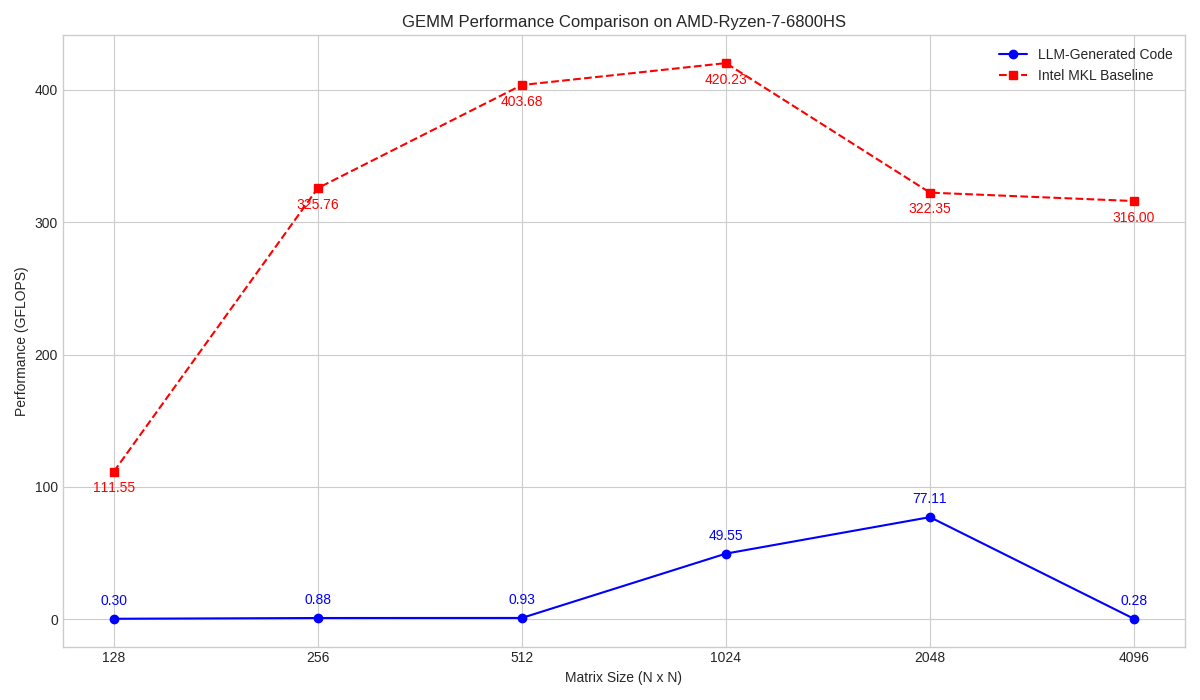
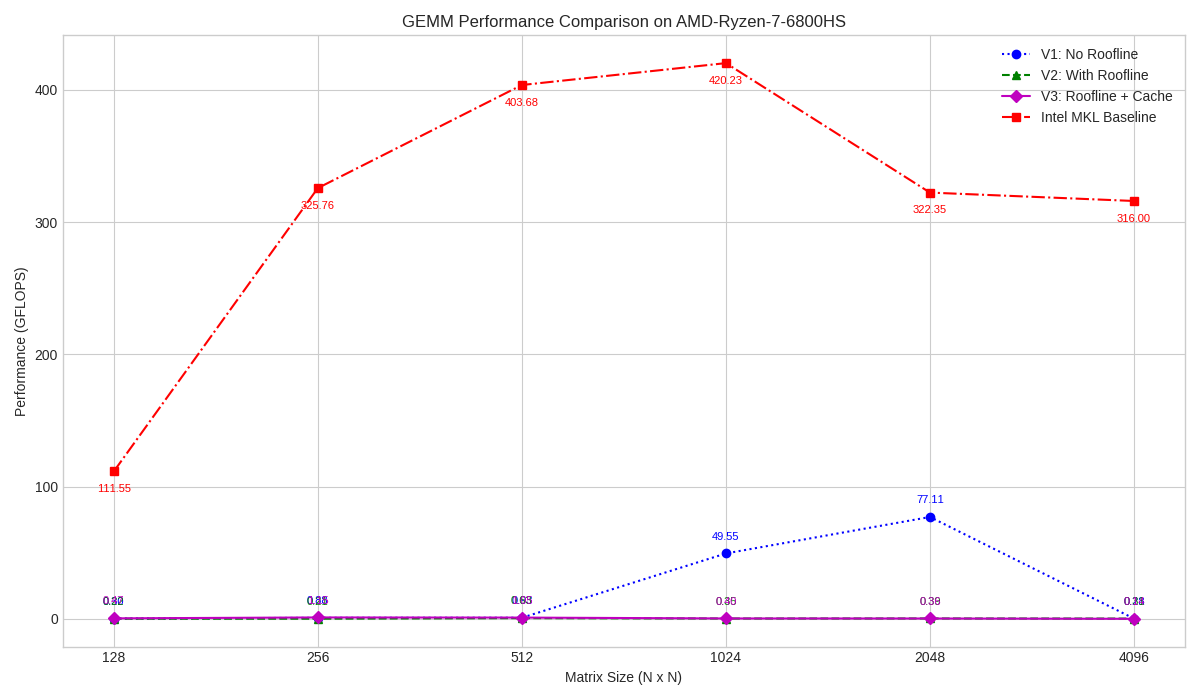
update plot and code

diff --git a/benchmarking/plot_amd.py b/benchmarking/plot_amd.py
@@ -1,11 +1,14 @@
 import os
 import re
 import matplotlib.pyplot as plt
+import matplotlib.ticker as ticker # Import the ticker
 
 def plot_gflops_from_results(cpu_model_dir: str):
     """
-    Parses GFLOPS values for LLM-generated code from filenames and
-    plots them against a hardcoded Intel MKL baseline.
+    Parses GFLOPS values for 3 different versions of LLM-generated code
+    from filenames and plots them against a hardcoded Intel MKL baseline.
+
+    Uses log scale on both axes for clarity.
 
     Args:
         cpu_model_dir (str): The path to the specific CPU model's results directory.
@@ -15,8 +18,11 @@ def plot_gflops_from_results(cpu_model_dir: str):
         return
 
     # --- Data Parsing for LLM-generated Code ---
-    performance_data_llm = []
-    filename_pattern = re.compile(r'^\d+-(\d+\.\d+)\.cpp$')
+    perf_v1 = {}
+    perf_v2 = {}
+    perf_v3 = {}
+
+    filename_pattern = re.compile(r'^(\d+)-(\d+\.\d+)\.cpp$')
 
     for dirpath, _, filenames in os.walk(cpu_model_dir):
         matrix_size_str = os.path.basename(dirpath)
@@ -26,19 +32,31 @@ def plot_gflops_from_results(cpu_model_dir: str):
             for filename in filenames:
                 match = filename_pattern.match(filename)
                 if match:
-                    gflops = float(match.group(1))
-                    performance_data_llm.append((matrix_size, gflops))
-                    break
+                    version = match.group(1)
+                    gflops = float(match.group(2))
 
-    if not performance_data_llm:
+                    if version == '1':
+                        perf_v1[matrix_size] = gflops
+                    elif version == '2':
+                        perf_v2[matrix_size] = gflops
+                    elif version == '3':
+                        perf_v3[matrix_size] = gflops
+
+    if not perf_v1 and not perf_v2 and not perf_v3:
         print("No valid LLM data found to plot. Check the directory structure and filenames.")
         return
 
-    performance_data_llm.sort()
-    matrix_sizes_llm = [item[0] for item in performance_data_llm]
-    gflops_values_llm = [item[1] for item in performance_data_llm]
+    # --- Prepare data for plotting (sort by matrix size) ---
+    def get_sorted_plot_data(perf_dict):
+        sorted_sizes = sorted(perf_dict.keys())
+        sorted_gflops = [perf_dict[size] for size in sorted_sizes]
+        return sorted_sizes, sorted_gflops
 
-    # --- Intel MKL Baseline Data (from your previous run) ---
+    matrix_sizes_v1, gflops_v1 = get_sorted_plot_data(perf_v1)
+    matrix_sizes_v2, gflops_v2 = get_sorted_plot_data(perf_v2)
+    matrix_sizes_v3, gflops_v3 = get_sorted_plot_data(perf_v3)
+
+    # --- Intel MKL Baseline Data ---
     mkl_matrix_sizes = [128, 256, 512, 1024, 2048, 4096]
     mkl_gflops_values = [111.55, 325.76, 403.68, 420.23, 322.35, 316.00]
 
@@ -46,37 +64,60 @@ def plot_gflops_from_results(cpu_model_dir: str):
     plt.style.use('seaborn-v0_8-whitegrid')
     plt.figure(figsize=(12, 7))
 
-    # Plot the LLM-generated code's performance
-    plt.plot(matrix_sizes_llm, gflops_values_llm, marker='o', linestyle='-', color='b', label='LLM-Generated Code')
+    # --- PLOT ALL 4 LINES ---
+    plt.plot(matrix_sizes_v1, gflops_v1, marker='o', linestyle=':', color='b', label='V1: No Roofline')
+    plt.plot(matrix_sizes_v2, gflops_v2, marker='^', linestyle='--', color='g', label='V2: With Roofline')
+    plt.plot(matrix_sizes_v3, gflops_v3, marker='D', linestyle='-', color='m', label='V3: Roofline + Cache')
+    plt.plot(mkl_matrix_sizes, mkl_gflops_values, marker='s', linestyle='-.', color='r', label='Intel MKL Baseline')
 
-    # --- ADDED FOR MKL COMPARISON ---
-    # Plot the Intel MKL baseline performance on the same axes
-    plt.plot(mkl_matrix_sizes, mkl_gflops_values, marker='s', linestyle='--', color='r', label='Intel MKL Baseline')
-    # --- END OF ADDITION ---
+    # --- AXIS SCALING AND FORMATTING ---
 
-    # Use a log scale for the x-axis, ensuring ticks are set for all sizes
-    all_sizes = sorted(list(set(matrix_sizes_llm + mkl_matrix_sizes)))
+    # Use a log scale for the x-axis (as before)
+    all_sizes = sorted(list(set(matrix_sizes_v1 + matrix_sizes_v2 + matrix_sizes_v3 + mkl_matrix_sizes)))
     plt.xscale('log', base=2)
     plt.xticks(all_sizes, labels=[str(s) for s in all_sizes])
-
-    # --- MODIFIED TITLE ---
-    plt.title(f'GEMM Performance Comparison on {os.path.basename(cpu_model_dir)}')
-    plt.xlabel('Matrix Size (N x N)')
-    plt.ylabel('Performance (GFLOPS)')
-    plt.legend()
     plt.minorticks_off()
 
-    # Add data labels to each point for the LLM data
-    for i, txt in enumerate(gflops_values_llm):
-        plt.annotate(f'{txt:.2f}', (matrix_sizes_llm[i], gflops_values_llm[i]), textcoords="offset points", xytext=(0,10), ha='center', color='b')
+    # *** NEW: Use a log scale for the y-axis ***
+    plt.yscale('log')
 
-    # Add data labels to each point for the MKL data
+    # *** NEW: Format y-axis ticks as regular numbers (0.1, 1, 10, 100) ***
+    # This prevents labels like 10^0, 10^1, 10^2
+    y_ax = plt.gca().yaxis
+    y_ax.set_major_formatter(ticker.ScalarFormatter())
+    y_ax.set_minor_formatter(ticker.ScalarFormatter())
+    # You may need to manually set ticks if auto-scaling isn't perfect
+    # plt.yticks([0.1, 1, 10, 100, 500], labels=['0.1', '1', '10', '100', '500'])
+
+    plt.title(f'GEMM Performance Comparison on {os.path.basename(cpu_model_dir)}')
+    plt.xlabel('Matrix Size (N x N)')
+    plt.ylabel('Performance (GFLOPS) - Log Scale')
+    plt.legend()
+
+
+    # --- ANNOTATIONS (Adjusted offsets) ---
+    text_offset_above = (0, 5)  # Place text slightly above the marker
+    text_offset_below = (0, -10) # Place text slightly below the marker
+
+    # V1 labels
+    for i, txt in enumerate(gflops_v1):
+        plt.annotate(f'{txt:.2f}', (matrix_sizes_v1[i], gflops_v1[i]), textcoords="offset points", xytext=text_offset_above, ha='center', color='b', fontsize=8)
+
+    # V2 labels
+    for i, txt in enumerate(gflops_v2):
+        plt.annotate(f'{txt:.2f}', (matrix_sizes_v2[i], gflops_v2[i]), textcoords="offset points", xytext=text_offset_above, ha='center', color='g', fontsize=8)
+
+    # V3 labels
+    for i, txt in enumerate(gflops_v3):
+        plt.annotate(f'{txt:.2f}', (matrix_sizes_v3[i], gflops_v3[i]), textcoords="offset points", xytext=text_offset_above, ha='center', color='m', fontsize=8)
+
+    # MKL labels
     for i, txt in enumerate(mkl_gflops_values):
-        plt.annotate(f'{txt:.2f}', (mkl_matrix_sizes[i], mkl_gflops_values[i]), textcoords="offset points", xytext=(0,-15), ha='center', color='r')
+        plt.annotate(f'{txt:.2f}', (mkl_matrix_sizes[i], mkl_gflops_values[i]), textcoords="offset points", xytext=text_offset_below, ha='center', color='r', fontsize=8)
 
     plt.tight_layout()
-    plt.savefig('performance_comparison.png')
-    print("Comparative plot saved as performance_comparison.png")
+    plt.savefig('performance_comparison_log.png')
+    print("Comparative plot saved as performance_comparison_log.png")
     plt.show()
 
 
@@ -85,5 +126,4 @@ if __name__ == "__main__":
     CPU_MODEL = "AMD-Ryzen-7-6800HS"
 
     full_path = os.path.join(RESULTS_ROOT, CPU_MODEL)
-
     plot_gflops_from_results(full_path)
